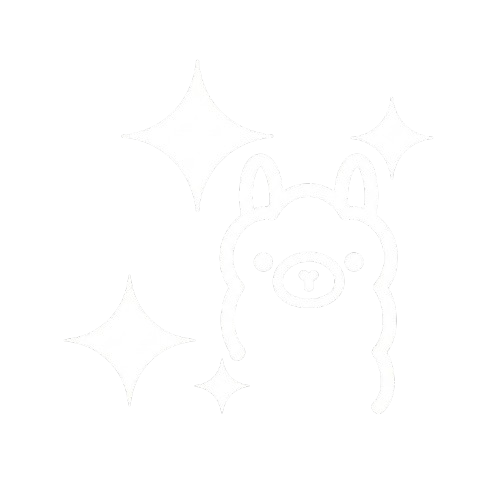
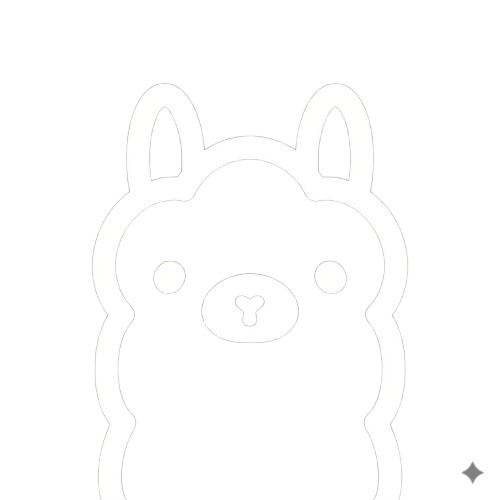
chore: bump version to 0.0.6 and update branding

Changed region(s): [[0.93, 0.93, 0.96, 0.96], [0.57, 0.27, 0.6, 0.3]]

diff --git a/README.md b/README.md
@@ -1,7 +1,7 @@
 # Ollama Commit
 
 <p align="center">
-  <img src="./ollama-commit.png" alt="Ollama Commit cover" width="860" />
+  <img src="./ollama-commit-title.png" alt="Ollama Commit cover" width="860" />
 </p>
 
 Generate Git commit messages in VS Code with Ollama.
